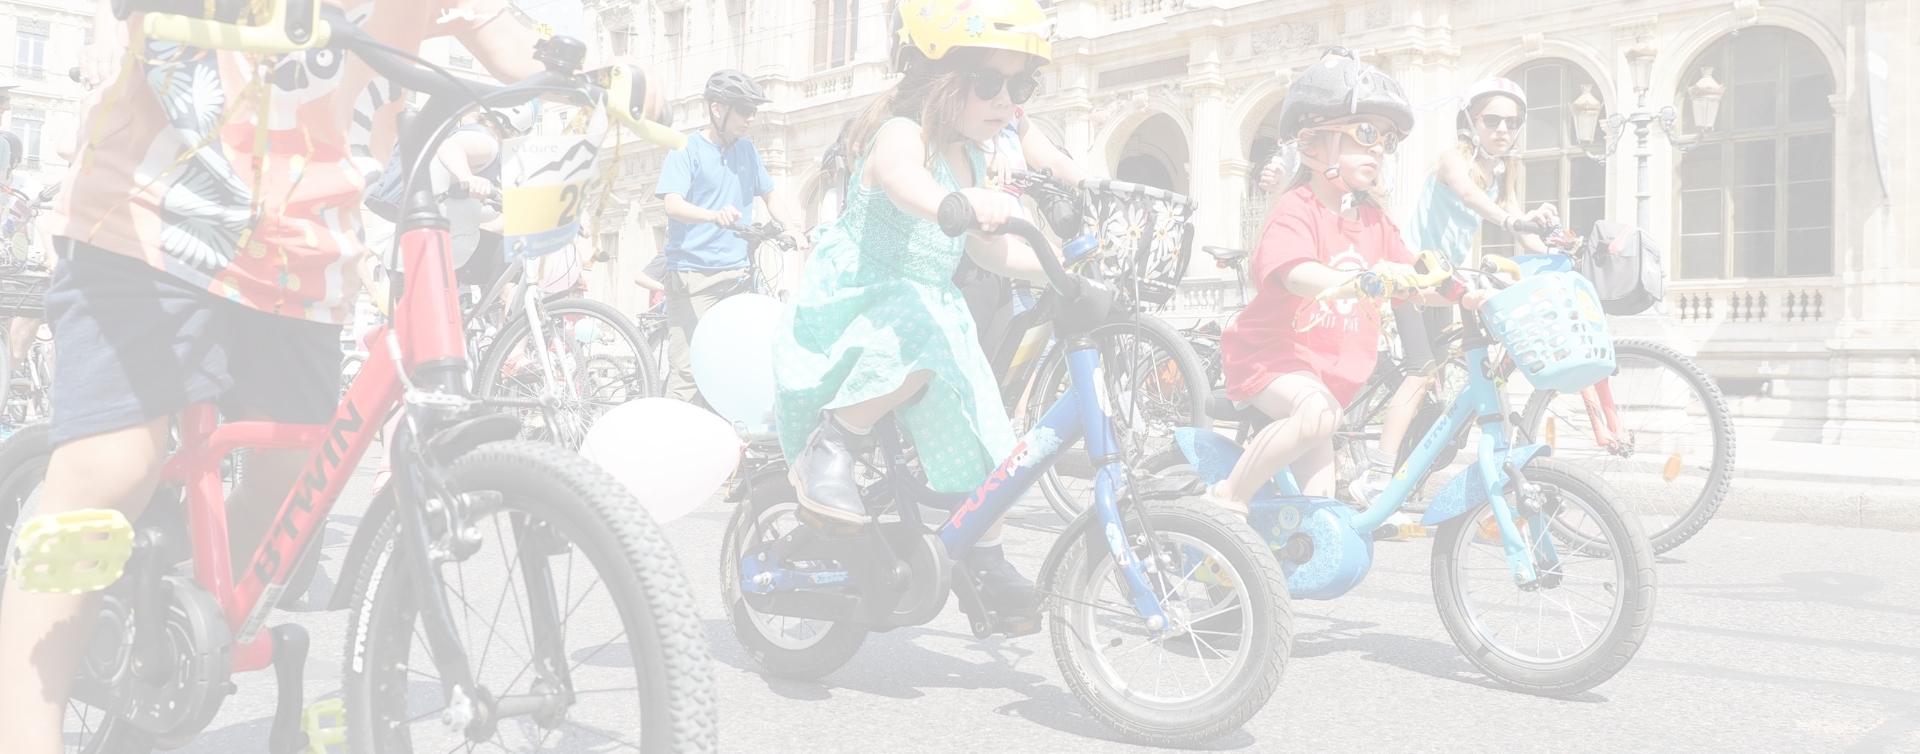
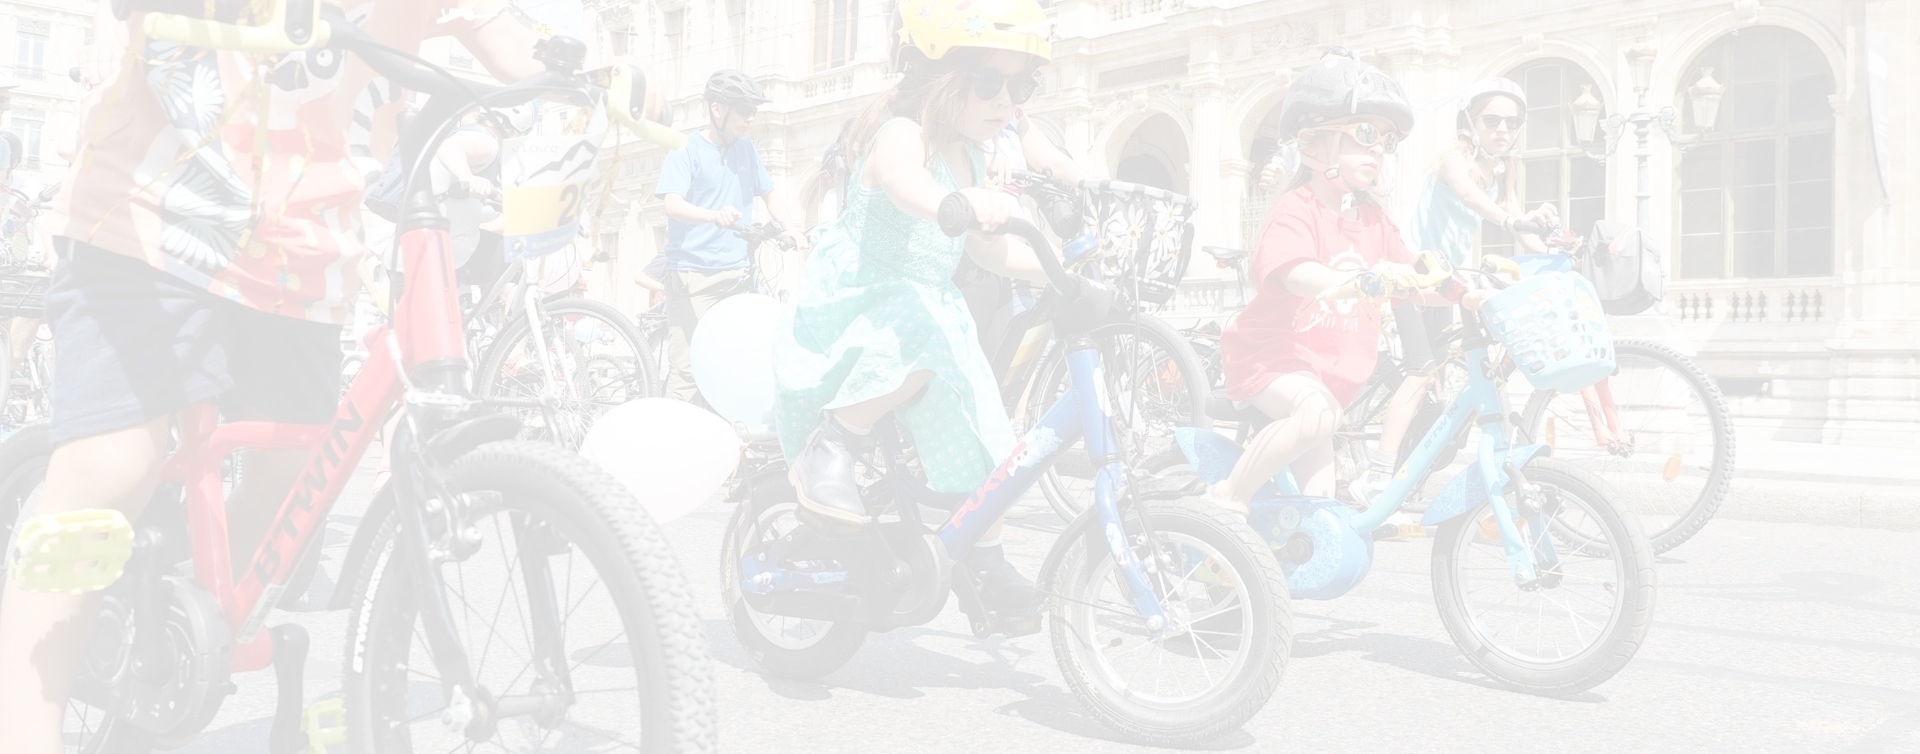
made the advocacy header

diff --git a/styles/advocacy-style.css b/styles/advocacy-style.css
@@ -1,0 +1,135 @@
+/* ================== CSS VARIABLES ========================== */
+
+:root {
+    --backgroundColor: rgba(254, 251, 251, 1);
+    --titleColor: rgba(242, 111, 82, 1);
+    --main-font:'Nunito Sans', sans-serif;
+    --boxShadow: 0px 3px 5px 3px rgba(69,69,69,0.59);
+    --textShadow: -1px 4px 4px rgba(15,7,4,0.41);
+    --backgroundText: rgba(249, 246, 246, 1);
+}
+/* =========================================================== */
+
+/* =================== GOOGLE FONT =========================== /
+
+/* Nunito sans for the main text*/
+@import url('https://fonts.googleapis.com/css2?family=Nunito+Sans:opsz,wght@6..12,200&display=swap');
+
+/* Source Sans 3 for h2 and h3(not Source Sans Pro on fonts.google.com */
+@import url('https://fonts.googleapis.com/css2?family=Nunito+Sans:opsz,wght@6..12,200&family=Source+Sans+3:wght@500&display=swap');
+
+/* =========================================================== */
+
+
+/* ==================== ALL & BODY =========================== */
+
+* {
+    box-sizing: border-box;
+    margin: 0;
+    padding: 0;
+    list-style: none;
+    scroll-behavior: smooth;
+    font-family: var(--main-font);
+    text-decoration: none;
+    color: black;
+}
+
+body {
+    background-color: var(--backgroundColor);
+}
+
+/* ====================== HEADER ============================= */
+
+header {
+    background-image: url(../images/quartiers_libres_cut_opacity.webp);
+    background-size: cover;
+    background-repeat: no-repeat;
+    background-position: 50% 0;
+    height: 15rem;
+    position: relative;
+}
+
+header img {
+    width: 36px;
+    margin: 28px;
+    float: right;
+}
+
+header h1 {
+    color: var(--titleColor);
+    position: absolute;
+    font-size: 3em;
+    font-weight: 100;
+    top: 50%;
+    left: 50%;
+    transform: translate(-50%, -50%);
+}
+
+
+
+/* ======== MEDIA QUERIES HEADER TABLET ========= */
+
+@media screen and (min-width: 568px) and (max-width: 1024px) {
+
+}
+
+
+/* ============================================== */
+
+/* ======== MEDIA QUERIES HEADER DESKTOP ========= */
+
+@media screen and (min-width: 1024px) {
+    header {
+            background-image: url(./images/quartiers_libres_desktop.webp);
+            background-size: cover;
+            background-position: bottom;
+            width: 100vw;
+            margin: 0;
+            display: flex;
+            justify-content: space-evenly;
+            align-items: center;
+    }
+
+    header img {
+        display: none;
+    }
+}
+
+/* =========================================================== */
+
+/* ======================= MAIN ============================== */
+
+
+
+/* ======== MEDIA QUERIES MAIN TABLET ========= */
+
+@media screen and (min-width: 568px) and (max-width: 1024px) {
+
+}
+
+/* ============================================ */
+
+/* ======== MEDIA QUERIES MAIN DESKTOP ========= */
+
+@media screen and (min-width: 1024px){
+}
+
+/* =========================================================== */
+
+/* ======================= FOOTER ============================== */
+
+
+/* ======== MEDIA QUERIES FOOTER TABLET ========= */
+
+@media screen and (min-width: 568px) and (max-width: 1024px) {
+}
+
+
+/* =============================================== */
+
+/* ======== MEDIA QUERIES FOOTER DESKTOP ========= */
+
+@media screen and (min-width: 1024px) {
+}
+
+/* =========================================================== */

diff --git a/styles/main-style.css b/styles/main-style.css
@@ -40,8 +40,6 @@ body {
 
 /* =========================================================== */
 
-/* =========================== INDEX PAGE ================================ */
-
 /* ====================== HEADER ============================= */
 
 header {
@@ -324,28 +322,6 @@ footer img {
     .first-logo {
         width: 100px;
     }
-}
-
-/* =========================================================== */
-
-/* ============================ ADVOCACY PAGE ================================ */
-
-/* ====================== HEADER ============================= */
-
-.advocacy-header {
-    display: flex;
-    flex-direction: column;
-    align-items: center;
-    background-image: url(./images/quartiers_libres_cut_opacity.webp);
-    background-size: cover;
-    width: 100vw;
-    height: 100%;
-    margin: 0;
-}
-
-.advocacy-header h1 {
-    display: flex;
-    color: var(--titleColor);
 }
 
 /* =========================================================== */

diff --git a/advocacy.html b/advocacy.html
@@ -4,10 +4,10 @@
     <meta charset="UTF-8" />
     <meta name="viewport" content="width=device-width, initial-scale=1.0" />
     <title>Plaidoyer</title>
-    <link rel="stylesheet" href="./style.css" />
+    <link rel="stylesheet" href="./styles/advocacy-style.css" />
   </head>
   <body>
-    <header class="advocacy-header">
+    <header>
       <a href="index.html"
         ><img src="./icones/icon_house.png" alt="icone d'une maison"
       /></a>

diff --git a/index.html b/index.html
@@ -4,7 +4,7 @@
     <meta charset="UTF-8" />
     <meta name="viewport" content="width=device-width, initial-scale=1.0" />
     <title>Quartiers libres #2</title>
-    <link rel="stylesheet" href="./style.css" />
+    <link rel="stylesheet" href="./styles/main-style.css" />
   </head>
   <body>
     <header>
